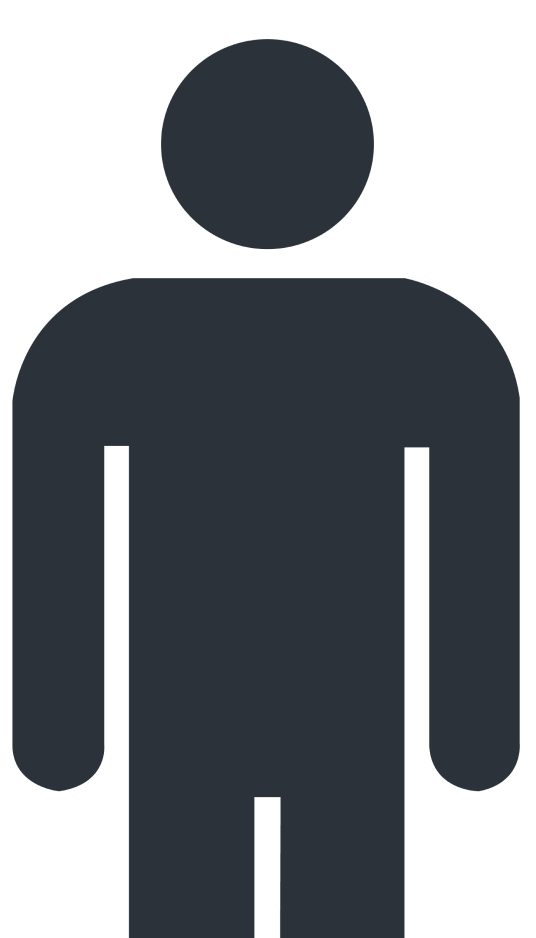
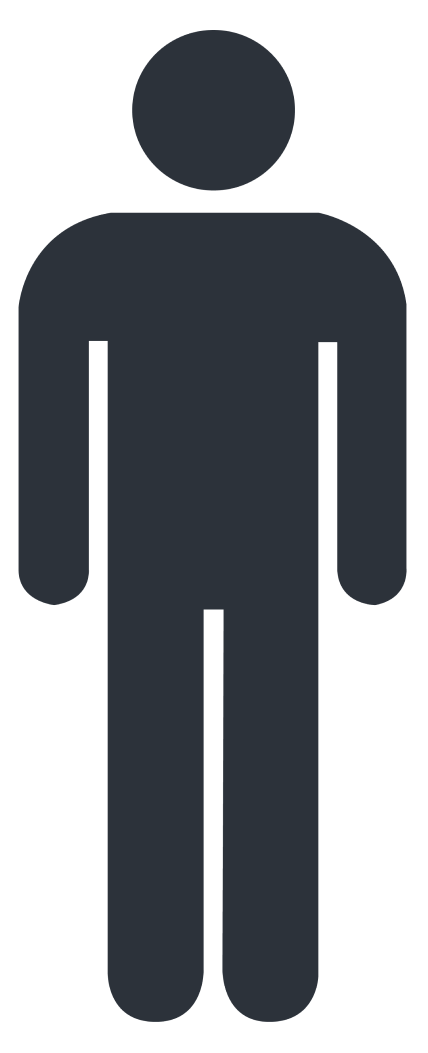
person fix

Changed region(s): [[0.0, 0.0, 0.972, 1.0]]

diff --git a/src/Core/pages/FlightsAndCorona.js b/src/Core/pages/FlightsAndCorona.js
@@ -1,4 +1,3 @@
-
 import React, { Fragment } from 'react'
 import { Spring } from 'react-spring/renderprops.cjs'
 import { Paragraph } from '../../../src/Typography/Paragraph'
@@ -43,13 +42,17 @@ function FlightsAndCorona() {
                 <div className="information-container">
                   <div>
                     <InformationBox backgroundColor="white">
-                      <Subtitle>2019 </Subtitle>
+                      <Subtitle>
+                        <span className="blue">2019</span>
+                      </Subtitle>
                       <Paragraph>
-                        <span>68.948.849</span> aantal vluchten wereldwijd
+                        <span className="blue">68.948.849</span> aantal vluchten
+                        wereldwijd
                       </Paragraph>
 
                       <Paragraph>
-                        Dit zijn gemiddeld <span>188.901</span> vluchten per dag
+                        Dit zijn gemiddeld <span className="blue">188.901</span>{' '}
+                        vluchten per dag
                       </Paragraph>
                     </InformationBox>
                   </div>
@@ -73,40 +76,50 @@ function FlightsAndCorona() {
       <VisibilitySensor once partialVisibility>
         {({ isVisible }) => {
           return (
-            <div className="person-container">
-              {redPersonCount.map((item, index) => {
-                if (item == 'green') {
-                  return (
-                    <Spring
-                      key={index}
-                      delay={110 * index}
-                      to={{
-                        opacity: isVisible ? 1 : 0,
-                        transform: isVisible
-                          ? 'translateY(0)'
-                          : 'translateY(100px)',
-                      }}
-                    >
-                      {(props) => <GreenPersonImage styling={{ ...props }} />}
-                    </Spring>
-                  )
-                } else {
-                  return (
-                    <Spring
-                      key={index}
-                      delay={110 * index}
-                      to={{
-                        opacity: isVisible ? 1 : 0,
-                        transform: isVisible
-                          ? 'translateY(0)'
-                          : 'translateY(100px)',
-                      }}
-                    >
-                      {(props) => <RedPersonImage styling={{ ...props }} />}
-                    </Spring>
-                  )
-                }
-              })}
+            <div className="persons-and-years">
+              <div className="person-container">
+                {redPersonCount.map((item, index) => {
+                  if (item == 'green') {
+                    return (
+                      <Spring
+                        key={index}
+                        delay={110 * index}
+                        to={{
+                          opacity: isVisible ? 1 : 0,
+                          transform: isVisible
+                            ? 'translateY(0)'
+                            : 'translateY(100px)',
+                        }}
+                      >
+                        {(props) => <GreenPersonImage styling={{ ...props }} />}
+                      </Spring>
+                    )
+                  } else {
+                    return (
+                      <Spring
+                        key={index}
+                        delay={110 * index}
+                        to={{
+                          opacity: isVisible ? 1 : 0,
+                          transform: isVisible
+                            ? 'translateY(0)'
+                            : 'translateY(100px)',
+                        }}
+                      >
+                        {(props) => <RedPersonImage styling={{ ...props }} />}
+                      </Spring>
+                    )
+                  }
+                })}
+              </div>
+              <div className="year-container">
+                <Subtitle>
+                  <span>2019</span>
+                </Subtitle>
+                <Subtitle>
+                  <span className="red">2020</span>
+                </Subtitle>
+              </div>
             </div>
           )
         }}

diff --git a/src/Core/pages/WhatIsNo2.js b/src/Core/pages/WhatIsNo2.js
@@ -32,11 +32,6 @@ function WhatIsNo2() {
             </VisibilitySensor>
           </div>
           <div className="right-section">
-            <Paragraph>
-              Hierbij komt er eerst stikstofmonoxide (NO) vrij en daarna door
-              een verdere reactie NO2.
-            </Paragraph>
-
             <div className="no2-container">
               <article>
                 <p className="chemicals-long">Stikstof</p>
@@ -55,9 +50,14 @@ function WhatIsNo2() {
               <p className="chemicals-long">Zuurstof</p>
               <p className="chemicals-short">O2</p>
               <p className="chemicals-formula pb">O = O</p>
+              <p className="paragraph pb">
+                Bij deze verbranding ontstaan er chemische reacties tussen het
+                stikstof (N) en het zuurstof in de lucht (O2) uit de lucht.
+              </p>
               <Paragraph>
-                Bij verbranding op hoge temperaturen ontstaan er chemische
-                reacties tussen stikstof (N) en zuurstof (O2) uit de lucht.
+                Door deze chemische reactie ontstaat stikstofmonoxide (NO).
+                Hierna vindt een verdere reactie plaats waaruit stikstofdioxide
+                (NO2) ontstaat.
               </Paragraph>
             </div>
           </div>

diff --git a/src/styles/pages/_flights-and-corona.scss b/src/styles/pages/_flights-and-corona.scss
@@ -30,10 +30,28 @@
   display: grid;
   grid-template-columns: repeat(5, 1fr);
   grid-template-rows: max-content;
-  padding-left: 5rem;
   align-content: center;
+  grid-column-gap: 1rem;
+  grid-row-gap: 0.3rem;
 
   .person-image {
-    width: 2.3rem;
+    height: 4.3rem;
+  }
+}
+
+.persons-and-years {
+  display: flex;
+
+  .year-container {
+    display: flex;
+    flex-direction: column;
+    justify-content: space-between;
+    padding: 4.8rem 0 5.6rem 0.7rem;
+    span {
+      font-size: 3rem;
+    }
+    .red {
+      color: #f70123;
+    }
   }
 }

diff --git a/src/Core/pages/CompareAirportsPage.js b/src/Core/pages/CompareAirportsPage.js
@@ -24,7 +24,7 @@ function CompareAirportsPage() {
               <div className="title">
                 <Trail
                   title="Vergelijken van de luchthaven"
-                  color="#000"
+                  color="#F70123"
                   isVisible={isVisible}
                 />
                 <Subtitle>2019 & 2020</Subtitle>

diff --git a/src/Core/Animations/Trail.js b/src/Core/Animations/Trail.js
@@ -10,6 +10,7 @@ export const Trail = ({ isVisible, title, color }) => {
     x: isVisible ? 0 : 20,
     height: isVisible ? 110 : 0,
     from: { opacity: 0, x: 20, height: 0 },
+    letterSpacing: isVisible ? 1 : 0,
   })
   return (
     <div className="trails-main">

diff --git a/src/Core/GreenPersonImage.js b/src/Core/GreenPersonImage.js
@@ -5,7 +5,7 @@ export function GreenPersonImage({ styling }) {
   return (
     <img
       className="person-image"
-      src="./assets/darkgreen-icon.png"
+      src="./assets/darkgrey-icon.png"
       style={styling}
     ></img>
   )

diff --git a/src/Core/RedPersonImage.js b/src/Core/RedPersonImage.js
@@ -5,7 +5,7 @@ export function RedPersonImage({ styling }) {
   return (
     <img
       className="person-image"
-      src="./assets/darkred-icon.png"
+      src="./assets/red-icon.png"
       style={styling}
     ></img>
   )

diff --git a/src/styles/pages/_what-is-no2.scss b/src/styles/pages/_what-is-no2.scss
@@ -29,7 +29,7 @@
     .right-section {
       display: flex;
       flex-direction: column;
-      padding-top: 12rem;
+      padding-top: 5rem;
     }
 
     .no2-container {

diff --git a/src/styles/base/core/_information-box.scss b/src/styles/base/core/_information-box.scss
@@ -35,8 +35,8 @@
       color: #f70123;
       font-weight: bold;
     }
-    .green {
-      color: #043d20;
+    .blue {
+      color: #2c323a;
     }
   }
 }
